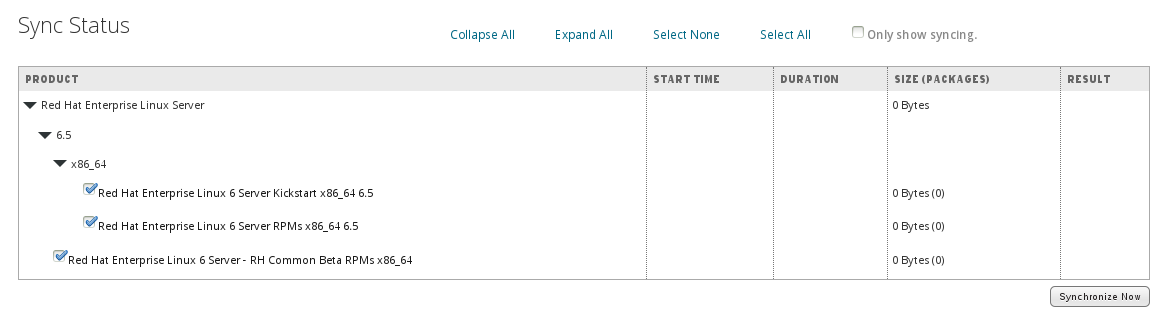
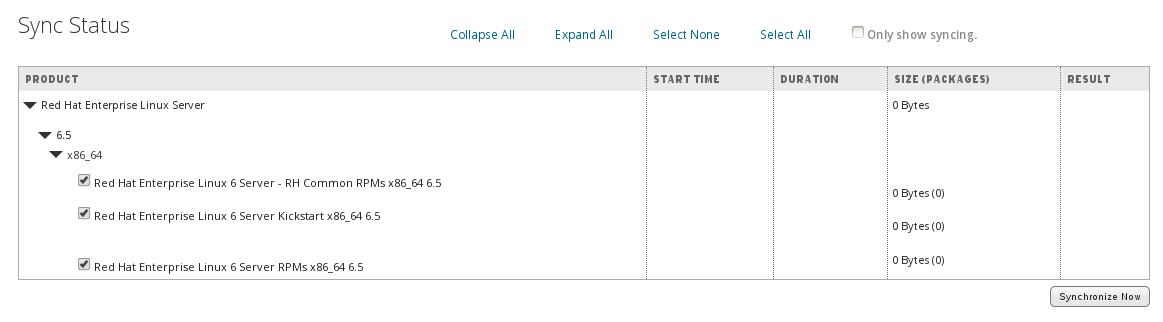
updates from 15 Sept

Changed region(s): [[0.031, 0.4658, 0.3715, 0.6211], [0.031, 0.7764, 0.3405, 0.8385], [0.0619, 0.6522, 0.3405, 0.7143]]

diff --git a/installation/attach_entitlements.md b/installation/attach_entitlements.md
@@ -16,19 +16,14 @@ OK, lets get a list of whats availble to you, you are specifically looking for t
 Search for the Satellite Subscription, as a Red Hat employee, some of the output I see is as follows, yours will look a little different
 
 ```
-Subscription Name: Red Hat Satellite Employee Subscription
-Provides:          Red Hat Beta
-                   Red Hat Satellite Tools 6 MDP
-                   Red Hat Satellite 6 MDP
-                   Red Hat Satellite Capsule 6 Beta
-                   Red Hat Enterprise Linux 7 Release Candidate
-                   Red Hat Satellite 6 Beta
-                   Red Hat Enterprise Linux High Availability (for RHEL Server)
-                   Red Hat Enterprise Linux Server
+Subscription Name: Red Hat Satellite Subscription
+Provides:          Red Hat Software Collections (for RHEL Server)
+                   Red Hat Satellite Capsule
                    Red Hat Satellite
-                   Red Hat Enterprise Linux Load Balancer (for RHEL Server)
-SKU:               SER0232US
-Pool ID:           8a85f9873f77744e013f8944aab067cf
+                   ....
+
+SKU:               SER---US
+Pool ID:           aaaabbbbccccddddeeeeffffgggghhh
 Available:         17
 Suggested:         1
 Service Level:     Self-Support
@@ -43,7 +38,7 @@ the **Pool ID** of the subscription
 
 You can **attach** this to your server as follows
 
-```subscription-manager attach --pool=8a85f9873f77744e013f8944aab067cf```
+```subscription-manager attach --pool=aaaabbbbccccddddeeeeffffgggghhh```
 
 <div class=warn>**NOTE**:
 If you get an error that reads like this
@@ -78,10 +73,9 @@ Once done, check that you have access to **exactly** three repos
 # yum repolist
 ...
 
-repo id                                 repo name                                                              status
-rhel-6-server-rpms                      Red Hat Enterprise Linux 6 Server (RPMs)                               12,833
-rhel-server-6-satellite-6-beta-rpms     Red Hat Satellite 6.0 Beta (for RHEL 6 Server) (RPMs)                     334
-rhel-server-rhscl-6-rpms                Red Hat Software Collections RPMs for Red Hat Enterprise Linux 6 Server 1,267
+rhel-6-server-rpms                  Red Hat Enterprise Linux 6 Server (RPMs)                               12,913
+rhel-6-server-satellite-6.0-rpms    Red Hat Satellite 6.0 (for RHEL 6 Server) (RPMs)                          345
+rhel-server-rhscl-6-rpms            Red Hat Software Collections RPMs for Red Hat Enterprise Linux 6 Server 1,269
 ```
 
 Once you have confirmed that you have access to exactly those three repositories, carry on to the next part.

diff --git a/configure_the_server_for_provisioning/provisioning_templates.md b/configure_the_server_for_provisioning/provisioning_templates.md
@@ -1,10 +1,10 @@
 # Provisioning Templates
 
-One of the changes from the beta version is that read only copies of provisioning templates are copied to your location and organisation but they are read only copies.
+One of the changes from the beta version is that now, copies of provisioning templates are copied to your location and organisation, but they are read only copies. You can see this from the small padlocks in the **Locked** Column
+
+This is a nice last minute change (from the beta) as editing one template no longer affects other orgs.
 
 If you want to change one of them, then you will need to clone it
-
-This is a nice last minute change (from the beta) as editing one template no longer affects other orgs. You can see this from the small padlocks in the **Locked** Column
 
 The two that we require for provisioning are **Kickstart default PXELinux** and **Satellite Kickstart Default**. The later brings in the **subscription_manager_registration** snippet also
 

diff --git a/initial_configuration,_adding_red_repos/adding_red_hat_repositories.md b/initial_configuration,_adding_red_repos/adding_red_hat_repositories.md
@@ -1,12 +1,3 @@
-<style>
-div.warn {
-    background-color: #fcf2f2;
-    border-color: #dFb5b4;
-    border-left: 5px solid #dfb5b4;
-    padding: 0.5em;
-    }
- </style>
-
 # Adding Red Hat Repositories
 
 Once the manifest file has been imported, the repositories required need to be selected and syncronised
@@ -23,13 +14,8 @@ Red Hat Enterprise Linux 6 Server _RPMs_
 
 ![RHEL6 RPMs](../images/repository-selection-2.png)
 
-Both of those are available on the main RPMs tab but the next one is available from the **Beta** tab
 
-<div class=warn>**NOTE**
-At the time of writing, Red Hat only shipped Puppet in the **RH Common Beta RPMs** channel. When Satellite 6 goes GA, it will be shipped in the non-beta version of the channel
-</div>
+RH Common RPMs
 
-RH Common Beta RPMs
-
-![RH Common Beta RPMs](../images/repository-selection-3.png)
+![RH Common RPMs](../images/repository-selection-3.png)
 

diff --git a/installation/initial_setup.md b/installation/initial_setup.md
@@ -1,6 +1,6 @@
 # Initial Setup
 
-The **katello-installer** is used to perform the initial setup and any future changes to the existing config. Its a puppet based installation an so can be re-run without overiding the previous settings.
+The **katello-installer** is used to perform the initial setup and any future changes to the existing config. Its a puppet based installation and so can be re-run without overiding the previous settings.
 
 We will create an "all-in-one" deployment, meaning that the Satellite will have the additional roles of TFTP proxy, DHCP server and DNS server added at install time.
 

diff --git a/initial_configuration,_adding_red_repos/syncronising_repositories.md b/initial_configuration,_adding_red_repos/syncronising_repositories.md
@@ -12,6 +12,4 @@ Click on the **Expand All** and **Select All** links and click on the **Syncroni
 
 ![Sync Status](../images/sync-status.png)
 
-We will leave other Repsoitory types until laterand skip to **Lifecycle Environments** next.
-
-No need to wait for those repositories to sync, we can proceed to **Lifecycle Environoments** next
+We will leave other Repsoitory types until later but there is no need to wait for those repositories to sync, we can proceed to **Lifecycle Environoments** next

diff --git a/configure_the_server_for_provisioning/README.md b/configure_the_server_for_provisioning/README.md
@@ -4,8 +4,8 @@ There are a number of things that need to be defined before we can add a new hos
 
 The following items need to be defined
 
-* Architecture *
-* Domain *
+* Architecture
+* Domain
 * Activation Key
 * Partition Table
 * Subnet

diff --git a/host_creation/README.md b/host_creation/README.md
@@ -1,3 +1,4 @@
 # Host Creation
 
-Here we, finally in a position to get our first host provisioned. 
+So, finally, we are in a position to get our first host provisioned.
+
